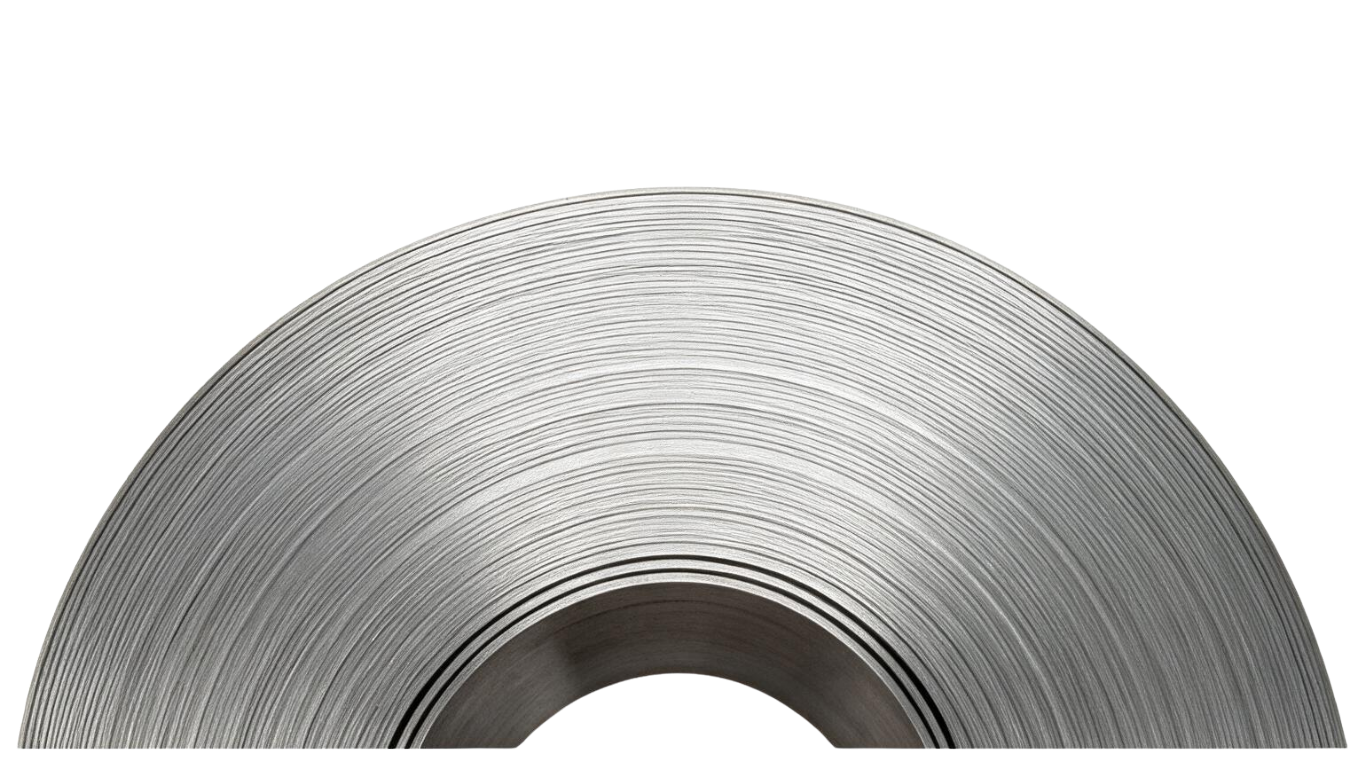
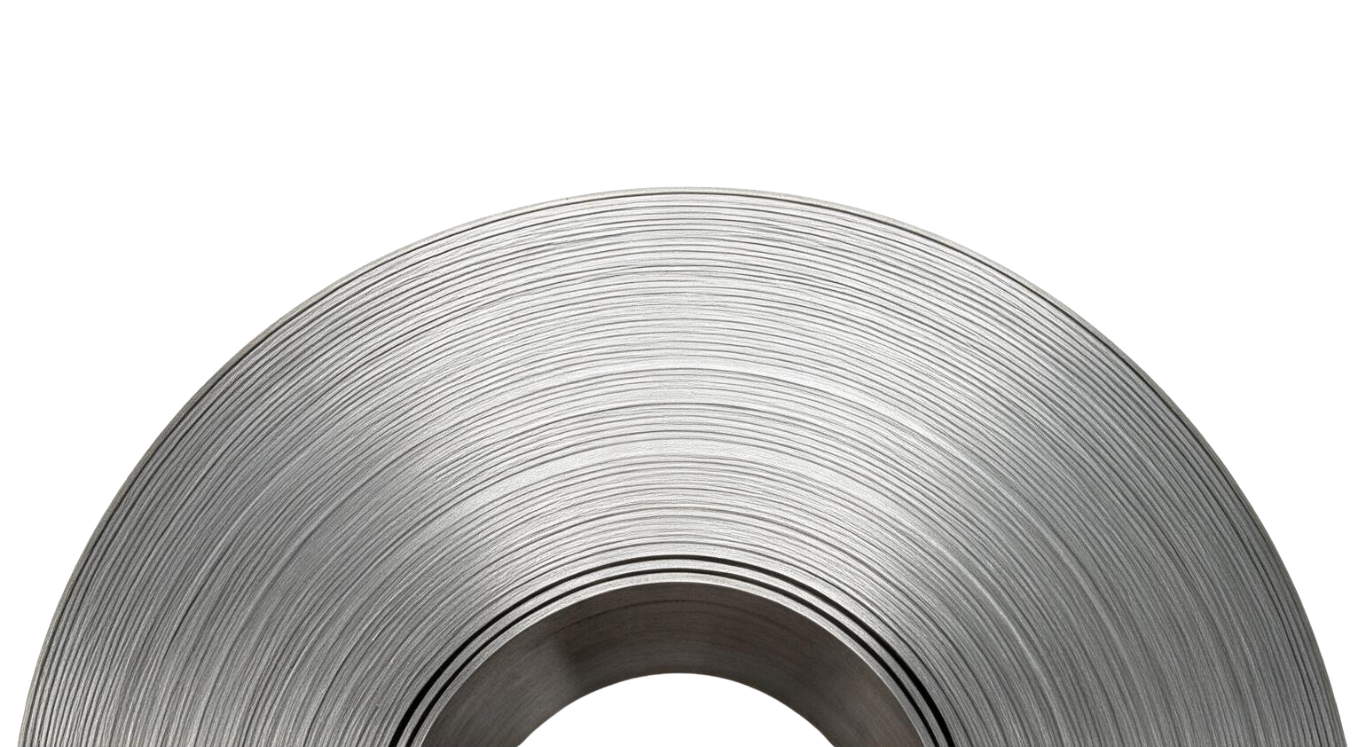
About Overview - 3 (done)

Changed region(s): [[0.0, 0.2155, 1.0, 1.0]]

diff --git a/src/components/AboutOverview.jsx b/src/components/AboutOverview.jsx
@@ -7,6 +7,16 @@ import steelCoilImg from '../assets/images/steel-coil-second-sec.png';
 
 export default function AboutOverview() {
   return (
+    <>
+    <style>{`
+      @keyframes anm-fade-up {
+        from { opacity: 0; transform: translateY(30px); }
+        to { opacity: 1; transform: translateY(0); }
+      }
+      .anm-load-fade-up {
+        animation: anm-fade-up 1.2s ease-out both;
+      }
+    `}</style>
     <section
       className="relative w-full bg-cover bg-center pt-16 lg:pt-20 pb-0 overflow-hidden flex flex-col justify-between"
       style={{ backgroundImage: `url(${bgImage})` }}
@@ -18,7 +28,7 @@ export default function AboutOverview() {
         </h2>
 
         <p className="text-sm md:text-base text-[#4c4c4c] leading-relaxed max-w-3xl mx-auto mb-6">
-          ANM's wide product range and end-to-end solutions have made it India's largest private sector dealer in the Iron and Steel Industry. ANM Ispat is a key distribution and sheet-metal processing arm of the Abhay Ispat Group — a 75+ year legacy enterprise in India's steel industry.
+          ANM's wide product range and end-to-end solutions have made it India's largest private sector dealer in the Iron and Steel Industry. ANM Ispat is a key distribution and sheet-metal processing arm of the Abhay Ispat Group - a 75+ year legacy enterprise in India's steel industry.
         </p>
 
         <div className="flex items-center justify-center gap-3 my-4">
@@ -44,7 +54,7 @@ export default function AboutOverview() {
       </div>
 
       {/* 2. Overlapping Visual Centerpiece - Flush to Bottom */}
-      <div className="max-w-[1280px] w-full mx-auto px-6 mt-12 relative flex items-end justify-center h-[280px] sm:h-[340px]">
+      <div className="max-w-[1280px] w-full mx-auto px-6 mt-12 relative flex items-end justify-center h-[280px] sm:h-[340px] anm-load-fade-up">
 
         {/* RADIAL GLOW RING - Orange arc/halo around top of coil (Layer 0) */}
         <div
@@ -67,38 +77,71 @@ export default function AboutOverview() {
           }}
         />
 
-        {/* LEFT IMAGE (Layer 1 - z-10) */}
-        <div className="absolute left-0 bottom-4 z-10 w-[36%] max-w-[400px] hidden md:block">
-          <div className="rounded-2xl rounded-tl-[3rem] overflow-hidden shadow-2xl border-2 border-white">
+        {/* LEFT IMAGE (Layer 1 - z-10) - positioned higher than right */}
+        <div className="absolute left-4 md:left-8 lg:left-12 bottom-12 sm:bottom-16 z-10 w-[36%] max-w-[400px] hidden md:block group anm-load-fade-up" style={{ animationDelay: '0.25s' }}>
+          <div className="rounded-3xl overflow-hidden shadow-2xl border-2 border-white transition-transform duration-500 ease-out group-hover:scale-[1.03] group-hover:-translate-y-2 group-hover:shadow-3xl">
             <img
               src={leftImg}
               alt="Steel Rolling Mill"
-              className="w-full h-[240px] sm:h-[270px] object-cover"
+              className="w-full h-[240px] sm:h-[270px] object-cover transition-transform duration-700 ease-out group-hover:scale-105"
             />
           </div>
         </div>
 
-        {/* CENTRAL STEEL COIL (Layer 3 - z-30) - Grounded Flush to Bottom */}
+        {/* CENTRAL STEEL COIL - Orange contour glow */}
         <div className="relative z-30 pointer-events-none flex items-end justify-center h-full">
+
+          {/* Orange glow behind the actual coil silhouette */}
           <img
             src={steelCoilImg}
             alt="Steel Coil"
-            className="w-[520px] sm:w-[620px] h-auto object-contain block leading-none drop-shadow-2xl translate-y-[2px]"
+            className="
+              absolute
+              w-[520px] sm:w-[620px]
+              h-auto
+              object-contain
+              opacity-90
+              blur-[1px]
+              drop-shadow-[0_0_8px_rgba(255,95,35,0.95)]
+              drop-shadow-[0_0_0px_rgba(255,110,45,1)]
+              drop-shadow-[0_0_24px_rgba(255,110,45,0.75)]
+              drop-shadow-[0_0_55px_rgba(255,135,65,0.45)]
+              scale-[1.015]
+            "
+            aria-hidden="true"
           />
+
+          {/* Actual steel coil */}
+          <img
+            src={steelCoilImg}
+            alt="Steel Coil"
+            className="
+              relative
+              w-[520px] sm:w-[620px]
+              h-auto
+              object-contain
+              block
+              leading-none
+              drop-shadow-2xl
+              translate-y-[2px]
+            "
+          />
+
         </div>
 
         {/* RIGHT IMAGE (Layer 1 - z-10) */}
-        <div className="absolute right-0 bottom-4 z-10 w-[36%] max-w-[400px] hidden md:block">
-          <div className="rounded-2xl rounded-tr-[3rem] overflow-hidden shadow-2xl border-2 border-white">
+        <div className="absolute right-4 md:right-8 lg:right-12 bottom-4 z-10 w-[36%] max-w-[400px] hidden md:block group anm-load-fade-up" style={{ animationDelay: '0.5s' }}>
+          <div className="rounded-3xl overflow-hidden shadow-2xl border-2 border-white transition-transform duration-500 ease-out group-hover:scale-[1.03] group-hover:-translate-y-2 group-hover:shadow-3xl">
             <img
               src={rightImg}
               alt="Foundry Ladle"
-              className="w-full h-[240px] sm:h-[270px] object-cover"
+              className="w-full h-[240px] sm:h-[270px] object-cover transition-transform duration-700 ease-out group-hover:scale-105"
             />
           </div>
         </div>
 
       </div>
     </section>
+    </>
   );
 }
